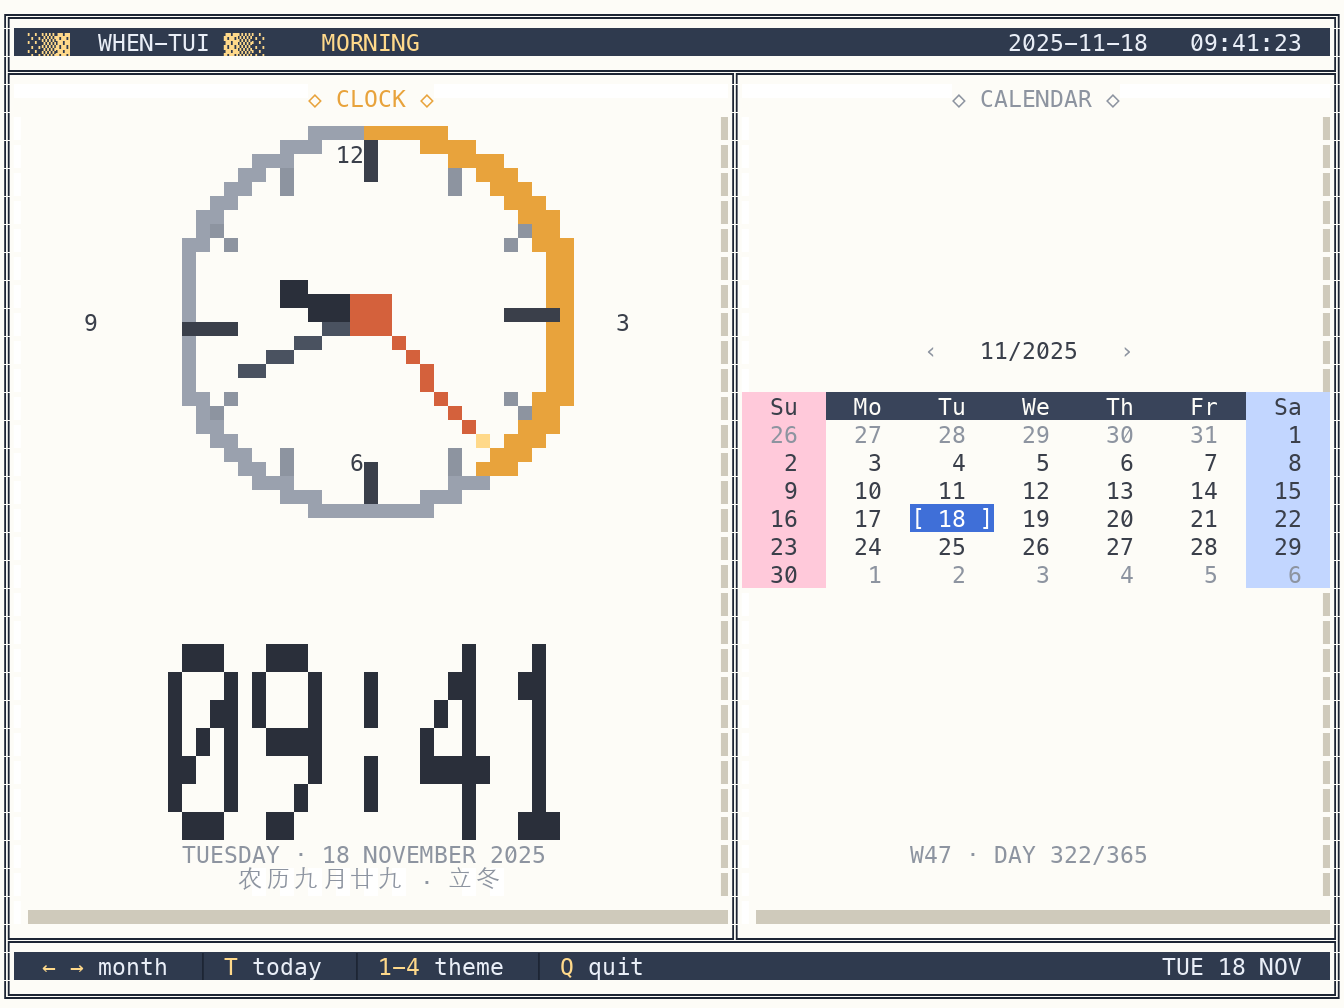
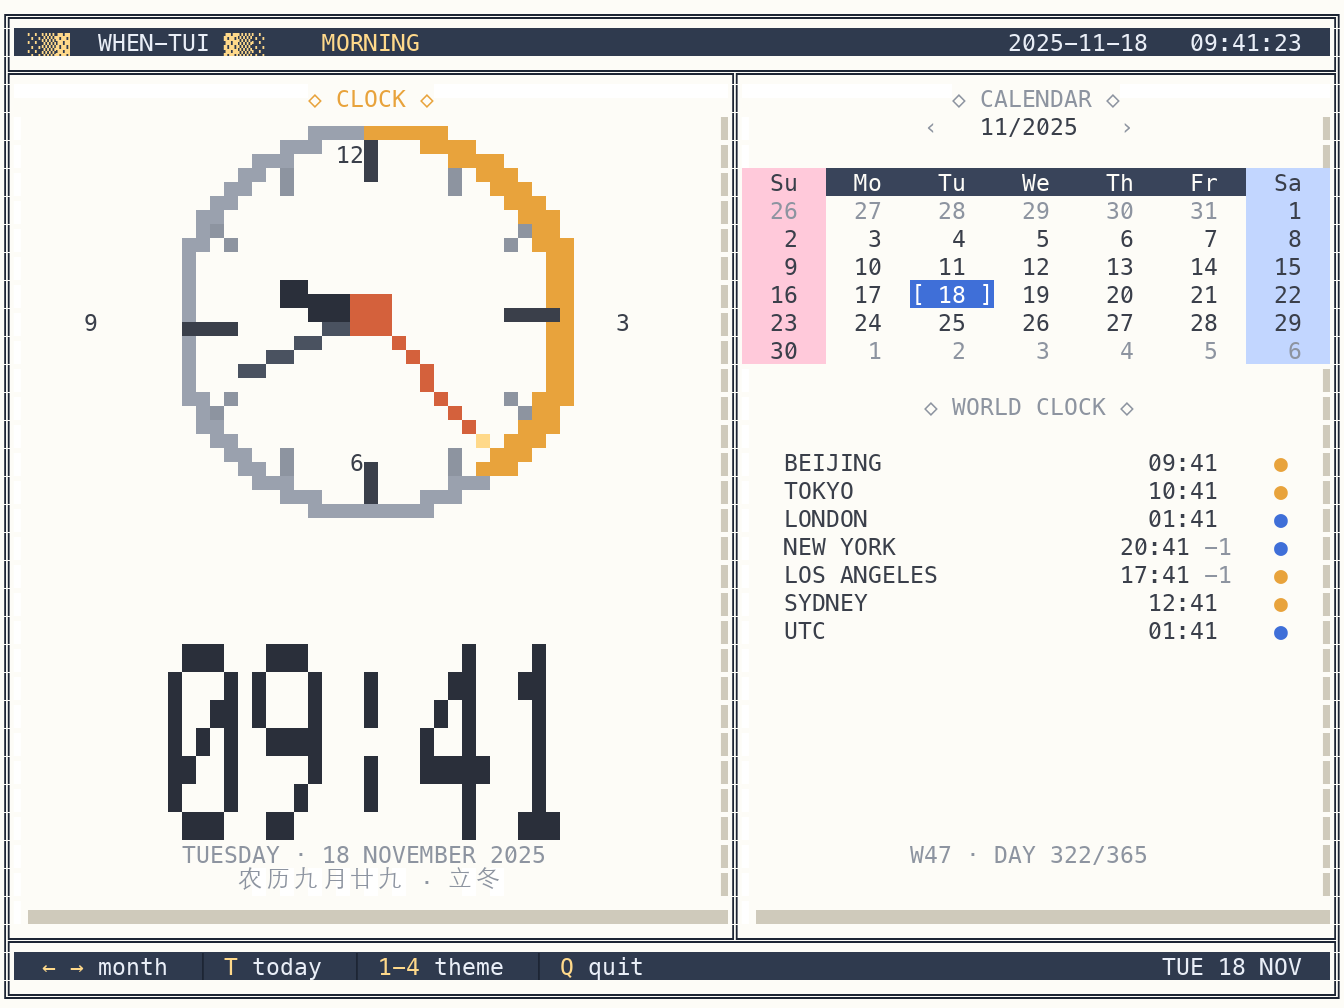
feat: world clock under the calendar
The right pane was mostly empty below the grid. Added a WORLD CLOCK block:

  BEIJING 09:41 ●   TOKYO 10:41 ●   LONDON 01:41 ●
  NEW YORK 20:41 -1  LOS ANGELES 17:41 -1  SYDNEY 12:41 ●  UTC 01:41 ●

- times come from zoneinfo, so no tz data is baked in
- a dot marks day (arc colour) vs night (accent colour)
- a -1 / +1 marker shows when the city is already on another date
- the calendar moved to the top of the pane so the two blocks fit together

Changed region(s): [[0.5312, 0.123, 1.0, 0.6458]]

diff --git a/when.py b/when.py
@@ -16,6 +16,7 @@ import os
 import pathlib
 import sys
 from datetime import date, datetime
+from zoneinfo import ZoneInfo, ZoneInfoNotFoundError
 
 # ── run from a clone without activating anything ────────────────────────
 _venv_dir = pathlib.Path(__file__).resolve().with_name(".venv")
@@ -517,12 +518,22 @@ def draw_clock(c: Canvas, now: datetime, s: dict) -> list:
 # Calendar pane
 # ═══════════════════════════════════════════════════════════════════════
 
+WORLD_CLOCKS = (
+    ("BEIJING", "Asia/Shanghai"),
+    ("TOKYO", "Asia/Tokyo"),
+    ("LONDON", "Europe/London"),
+    ("NEW YORK", "America/New_York"),
+    ("LOS ANGELES", "America/Los_Angeles"),
+    ("SYDNEY", "Australia/Sydney"),
+    ("UTC", "UTC"),
+)
+
 DOW = ("Su", "Mo", "Tu", "We", "Th", "Fr", "Sa")
 CELL_W = 6
 GRID_W = CELL_W * 7
 
 
-def draw_calendar(c: Canvas, year: int, month: int, today: date,
+def draw_calendar(c: Canvas, now: datetime, year: int, month: int, today: date,
                   selected: date | None, s: dict) -> list[tuple[int, int, int, tuple]]:
     """Returns hit boxes: (x, y, width, (action, payload))."""
     hits: list[tuple[int, int, int, tuple]] = []
@@ -535,8 +546,7 @@ def draw_calendar(c: Canvas, year: int, month: int, today: date,
     c.text(x0 + (pane_w - len(cap)) // 2, ROW_SPLIT + 1, cap, s["dim"], s["paper"])
 
     weeks = cal_mod.Calendar(cal_mod.SUNDAY).monthdayscalendar(year, month)
-    block_h = 3 + len(weeks)
-    top_y = top + max(0, (bottom - top - block_h) // 2)
+    top_y = top
 
     title = f"{month:02d}/{year}"
     tx = x0 + (pane_w - len(title)) // 2
@@ -590,6 +600,28 @@ def draw_calendar(c: Canvas, year: int, month: int, today: date,
                 c.put(cell_x + CELL_W - 1, ry, "›", s["accent"], bg)
             hits.append((cell_x, ry, CELL_W, ("day", d)))
 
+    # ── world clock ────────────────────────────────────────────────
+    wy = hy + len(rows) + 2
+    wcap = "◇ WORLD CLOCK ◇"
+    c.text(x0 + (pane_w - len(wcap)) // 2, wy, wcap, s["dim"], s["paper"])
+
+    for i, (city, tz) in enumerate(WORLD_CLOCKS):
+        ry = wy + 2 + i
+        try:
+            t = now.astimezone(ZoneInfo(tz))
+        except (ZoneInfoNotFoundError, ValueError):
+            continue
+        delta = (t.date() - today).days
+        mark = "" if delta == 0 else ("+1" if delta > 0 else "-1")
+        tstr = t.strftime("%H:%M")
+
+        c.text(x0 + 2, ry, city, s["ink"], s["paper"])
+        c.text(x0 + pane_w - 12 - len(mark), ry, tstr, s["ink"], s["paper"])
+        if mark:
+            c.text(x0 + pane_w - 8, ry, mark, s["dim"], s["paper"])
+        day = 6 <= t.hour < 18
+        c.put(x0 + pane_w - 3, ry, "●", s["arc"] if day else s["accent"], s["paper"])
+
     iso = today.isocalendar()
     doy = today.timetuple().tm_yday
     total = date(today.year, 12, 31).timetuple().tm_yday
@@ -610,7 +642,7 @@ def build_screen(now: datetime, year: int, month: int, today: date,
     c = Canvas(W, H, s["paper"])
     draw_window(c, s, now, theme_label)
     hits = draw_clock(c, now, s)
-    hits += draw_calendar(c, year, month, today, selected, s)
+    hits += draw_calendar(c, now, year, month, today, selected, s)
 
     if reveal < 1.0:
         vw = max(1, int(W * reveal))

diff --git a/README.md b/README.md
@@ -52,6 +52,7 @@ venv it prints the three commands above instead of a traceback.
 | Clock face | Rim, 12 hour ticks, hour/minute/second hands with a glow tip, and **a day-progress arc** — the rim fills clockwise as the 24 hours pass. The seconds hand sweeps smoothly at 10 fps |
 | Calendar pane | `‹ MM/YYYY ›`, weekday bar (Sundays pink, Saturdays blue), neighbouring-month days dimmed, today bracketed |
 | Calendar footer | ISO week and day of the year (`W47 · DAY 322/365`) |
+| World clock | Beijing, Tokyo, London, New York, Los Angeles, Sydney and UTC — each with a day/night dot and a `±1` marker when it is already the next or previous day |
 | Status bar | `← →` month · `T` today · `1-4` theme · `Q` quit, plus the weekday |
 
 ## Interaction
